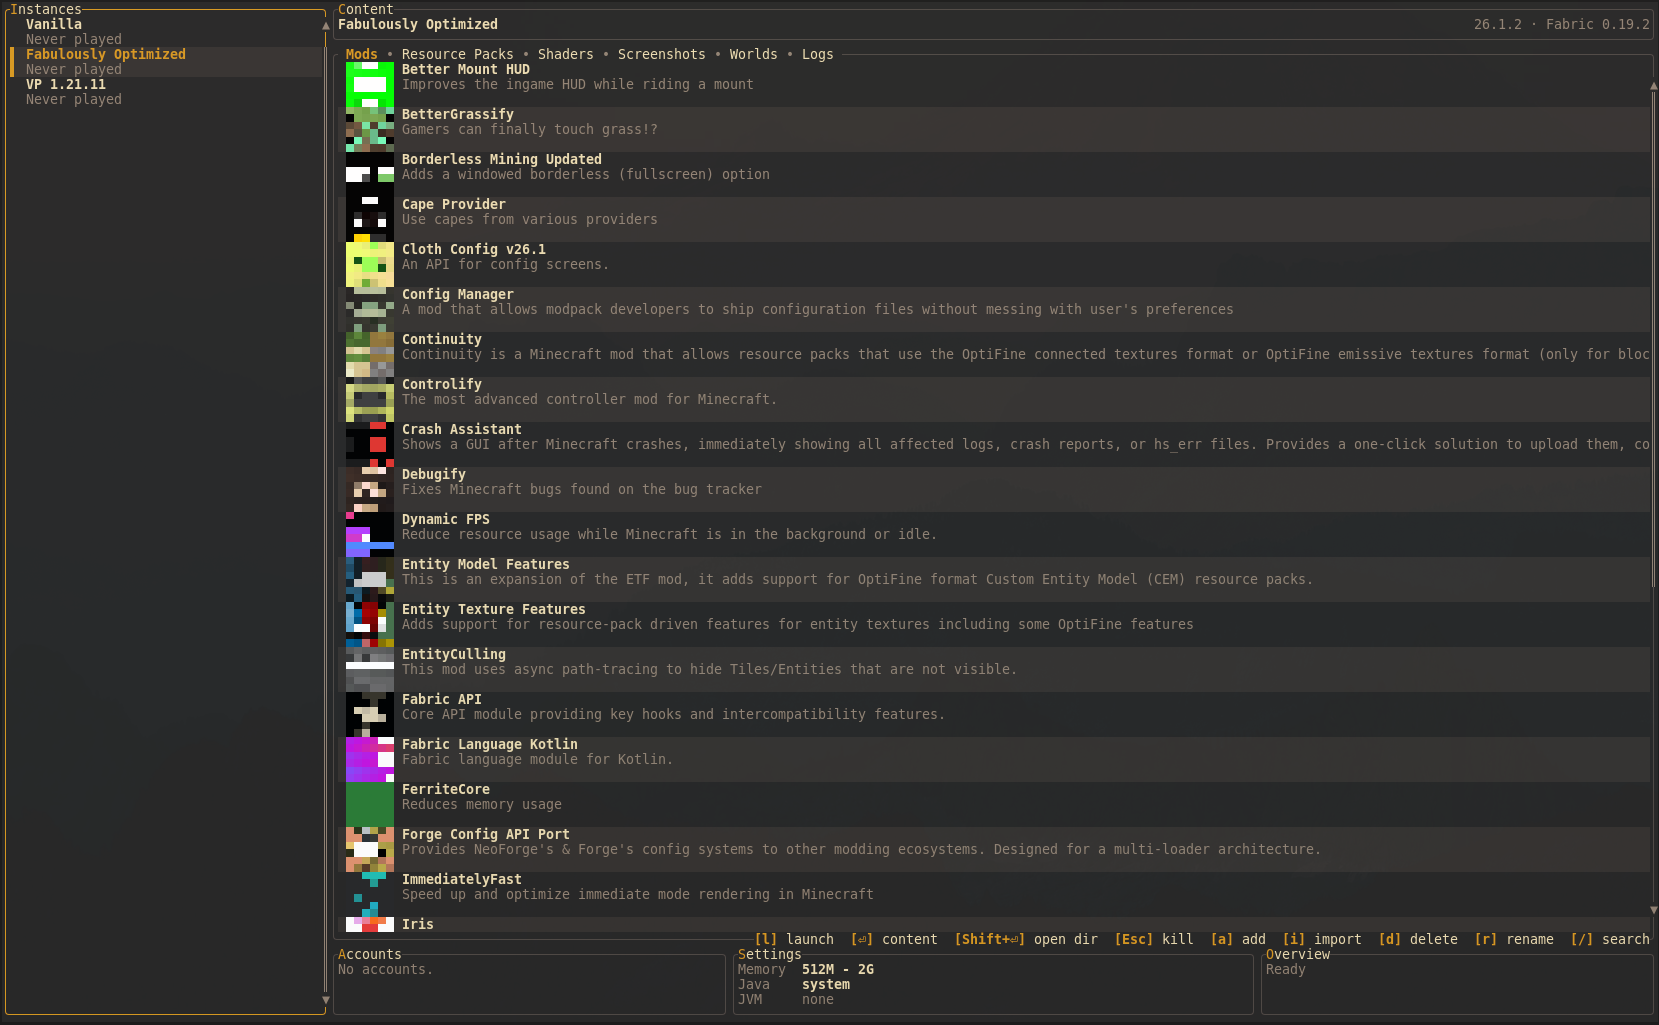
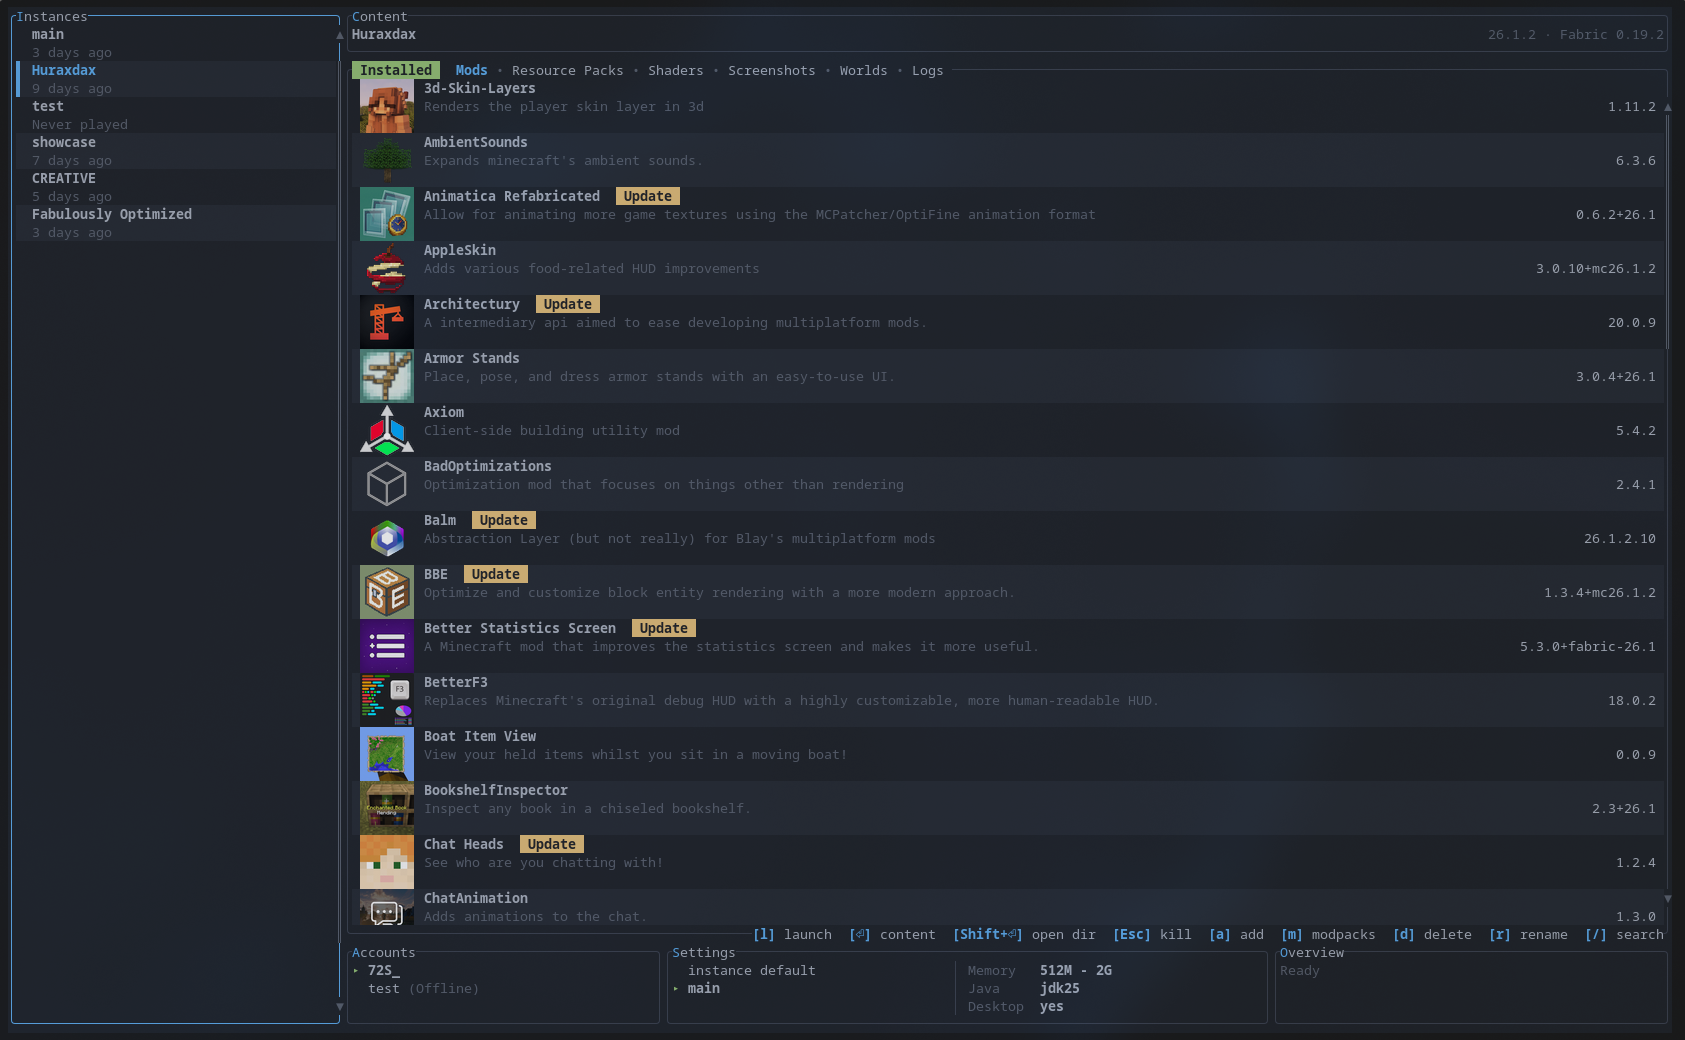
chore: updated showcase

diff --git a/README.md b/README.md
@@ -12,6 +12,9 @@
 
 ![screenshot](assets/screenshot.png)
 
+
+![modpage](assets/modpage.png)
+
 [Report Bug](https://github.com/objz/rmcl/issues) · [Request Feature](https://github.com/objz/rmcl/issues)
 
 </div>
